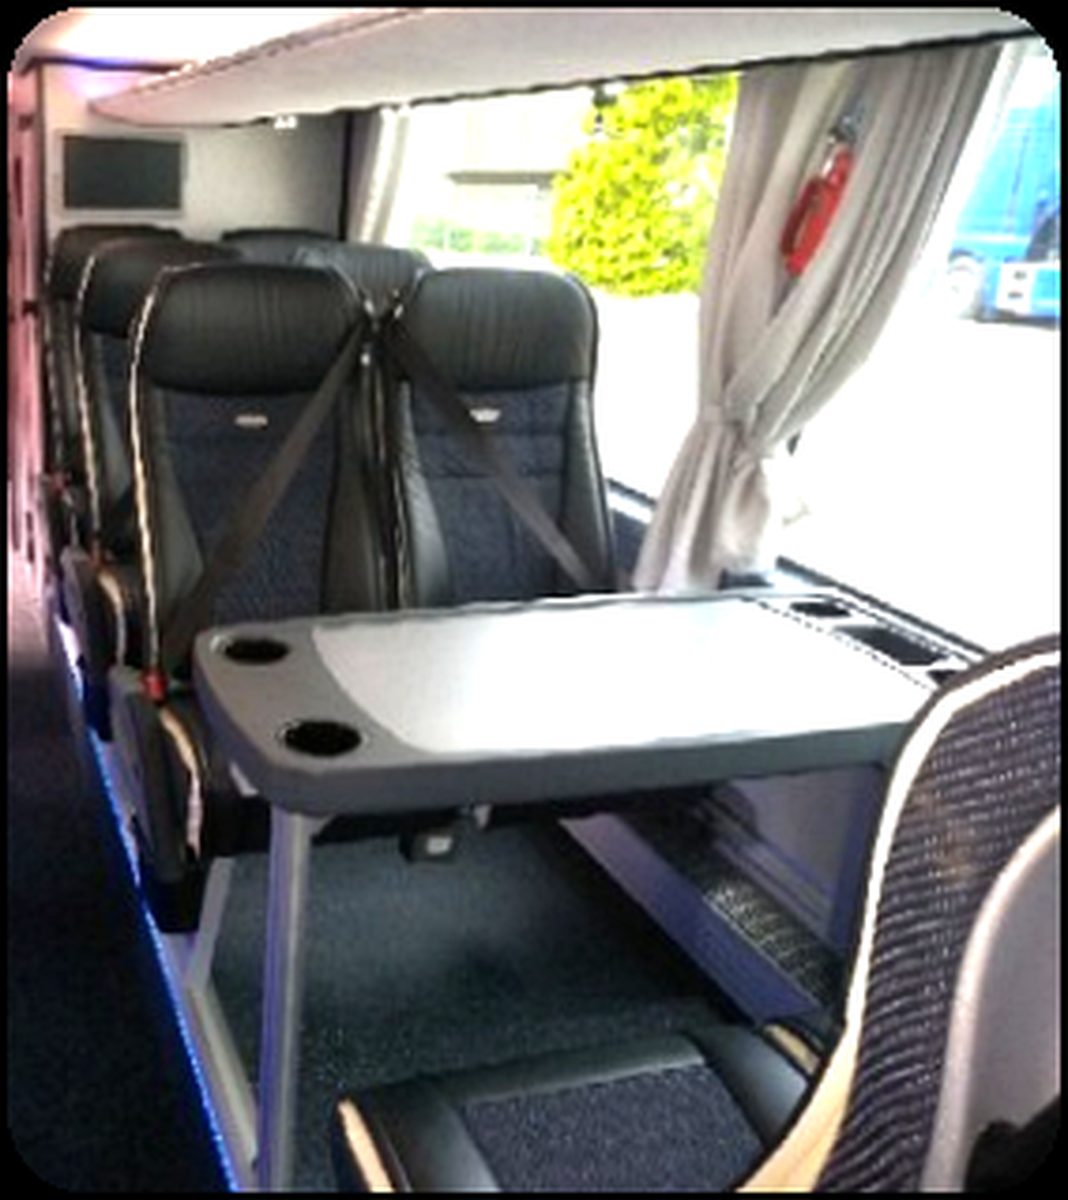
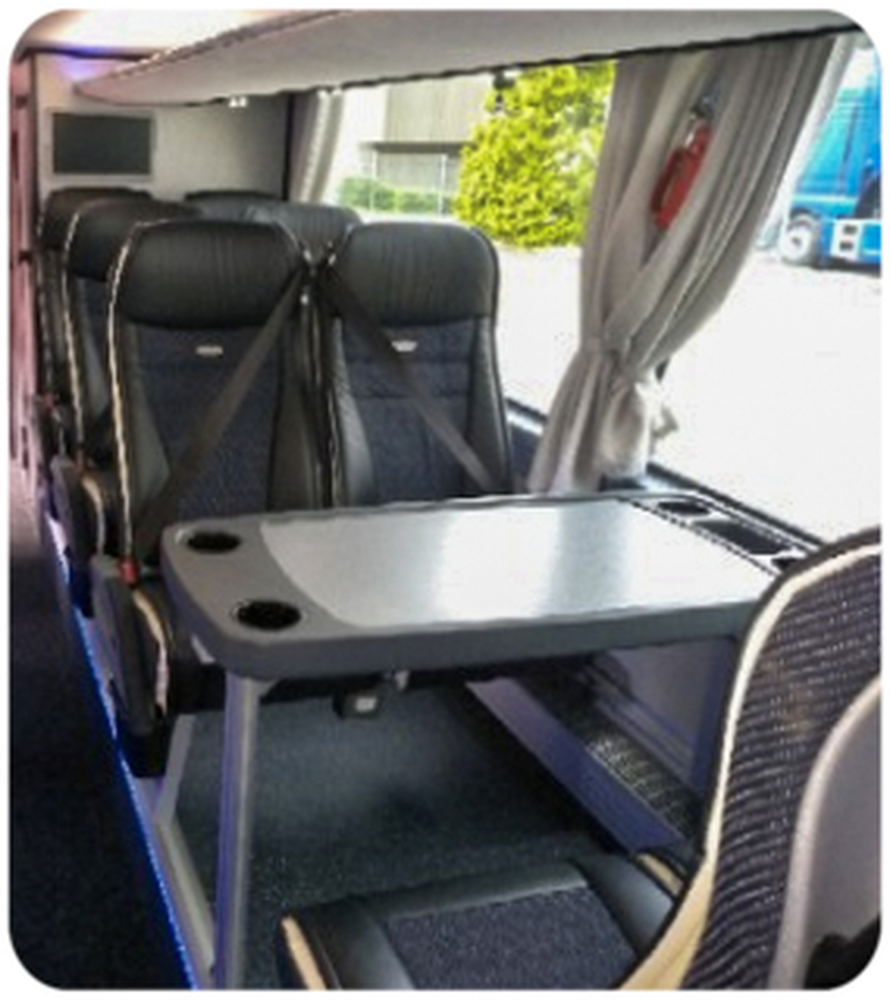
Hero: 3-bus slideshow; Adobe-restored vintage photo; brighter interiors; lighter komfort cards
- Hero now cycles their 3 real coaches (MAN, ZSC Lions, Setra) full-frame with real scenery
- 1932 photo restored via Adobe (cropped off the map, auto-toned)
- Interior photos tone-corrected via Adobe (brighter, clearer)
- Replaced dark MAN card with light icon cards (Panoramadeck, MAN Euro 6)

diff --git a/index.html b/index.html
@@ -14,39 +14,24 @@
 
 <script>
   tailwind.config = {
-    theme: {
-      extend: {
-        colors: {
-          ink:     '#14171C',
-          graphite:'#20262F',
-          steel:   '#2E6E9E',
-          steeldk: '#1E527A',
-          slate:   '#586374',
-          mist:    '#EDF1F5',
-          line:    '#DBE2EA',
-        },
-        fontFamily: {
-          display: ['"Space Grotesk"', 'system-ui', 'sans-serif'],
-          sans:    ['"IBM Plex Sans"', 'system-ui', 'sans-serif'],
-        },
-      }
-    }
+    theme: { extend: {
+      colors: { ink:'#14171C', graphite:'#20262F', steel:'#2E6E9E', steeldk:'#1E527A', slate:'#586374', mist:'#EDF1F5', line:'#DBE2EA' },
+      fontFamily: { display:['"Space Grotesk"','system-ui','sans-serif'], sans:['"IBM Plex Sans"','system-ui','sans-serif'] },
+    }}
   }
 </script>
 
 <style>
-  html { scroll-behavior:smooth; }
-  body { background:#fff; color:#14171C; -webkit-font-smoothing:antialiased; }
-  .eyebrow { letter-spacing:0.26em; text-transform:uppercase; font-size:0.72rem; font-weight:600; }
-  .rule { height:2px; width:3rem; background:#2E6E9E; }
-  .ul-steel { background-image:linear-gradient(#2E6E9E,#2E6E9E); background-size:0% 1.5px; background-repeat:no-repeat; background-position:0 100%; transition:background-size .35s ease; }
-  .ul-steel:hover { background-size:100% 1.5px; }
-  .img-zoom img { transition:transform 1.1s cubic-bezier(.2,.7,.2,1); }
-  .img-zoom:hover img { transform:scale(1.05); }
-  .js .reveal { opacity:0; transform:translateY(24px); transition:opacity .8s ease, transform .8s cubic-bezier(.2,.7,.2,1); }
-  .js .reveal.in { opacity:1; transform:none; }
-  @media (prefers-reduced-motion: reduce){ html{scroll-behavior:auto} .js .reveal{opacity:1;transform:none;transition:none} .img-zoom img{transition:none} }
-  #nav.scrolled { background:rgba(20,23,28,.93); backdrop-filter:blur(10px); }
+  html{scroll-behavior:smooth} body{background:#fff;color:#14171C;-webkit-font-smoothing:antialiased}
+  .eyebrow{letter-spacing:.26em;text-transform:uppercase;font-size:.72rem;font-weight:600}
+  .rule{height:2px;width:3rem;background:#2E6E9E}
+  .ul-steel{background-image:linear-gradient(#2E6E9E,#2E6E9E);background-size:0% 1.5px;background-repeat:no-repeat;background-position:0 100%;transition:background-size .35s ease}
+  .ul-steel:hover{background-size:100% 1.5px}
+  .img-zoom img{transition:transform 1.1s cubic-bezier(.2,.7,.2,1)} .img-zoom:hover img{transform:scale(1.05)}
+  .slide{position:absolute;inset:0;opacity:0;transition:opacity 1.4s ease} .slide.active{opacity:1}
+  .js .reveal{opacity:0;transform:translateY(24px);transition:opacity .8s ease,transform .8s cubic-bezier(.2,.7,.2,1)} .js .reveal.in{opacity:1;transform:none}
+  @media (prefers-reduced-motion:reduce){html{scroll-behavior:auto} .js .reveal{opacity:1;transform:none;transition:none} .img-zoom img{transition:none} .slide{transition:none}}
+  #nav.scrolled{background:rgba(20,23,28,.93);backdrop-filter:blur(10px)}
 </style>
 </head>
 <body class="font-sans antialiased">
@@ -55,7 +40,7 @@
 <header id="nav" class="fixed top-0 inset-x-0 z-50 transition-colors duration-500">
   <nav class="max-w-7xl mx-auto px-6 lg:px-10 h-20 flex items-center justify-between">
     <a href="#top" class="text-white leading-none">
-      <span class="block font-display font-700 text-xl md:text-[1.35rem] tracking-tight" style="font-weight:700">Wäckerlin <span class="text-steel">Carreisen</span></span>
+      <span class="block font-display text-xl md:text-[1.35rem] tracking-tight" style="font-weight:700">Wäckerlin <span class="text-steel">Carreisen</span></span>
       <span class="block eyebrow text-white/60 mt-1" style="font-size:.55rem">seit 1932 · Zürich</span>
     </a>
     <div class="hidden lg:flex items-center gap-8 text-[0.82rem] font-medium text-white/90">
@@ -70,14 +55,16 @@
 </header>
 
 <!-- HERO -->
-<section id="top" class="relative min-h-[88vh] flex items-center">
+<section id="top" class="relative min-h-[88vh] flex items-center overflow-hidden">
   <div class="absolute inset-0">
-    <img src="images/hero-coach.png" alt="TopClass Reisebus der Wäckerlin Carreisen AG in den Schweizer Bergen" class="w-full h-full object-cover" style="object-position:70% center">
-    <div class="absolute inset-0" style="background:linear-gradient(100deg, rgba(20,23,28,.85) 0%, rgba(20,23,28,.55) 45%, rgba(20,23,28,.15) 100%)"></div>
+    <img src="images/bus-man.jpg" class="slide active w-full h-full object-cover" style="object-position:center" alt="MAN Reisebus der Wäckerlin Carreisen AG in den Bergen">
+    <img src="images/bus-zsc.jpg" class="slide w-full h-full object-cover" style="object-position:center" alt="Doppelstock-Reisebus der Wäckerlin Carreisen AG">
+    <img src="images/bus-setra.jpg" class="slide w-full h-full object-cover" style="object-position:center" alt="Setra Reisebus der Wäckerlin Carreisen AG">
+    <div class="absolute inset-0" style="background:linear-gradient(100deg, rgba(20,23,28,.82) 0%, rgba(20,23,28,.5) 45%, rgba(20,23,28,.12) 100%)"></div>
   </div>
   <div class="relative max-w-7xl mx-auto px-6 lg:px-10 w-full pt-28 pb-20">
     <div class="max-w-2xl">
-      <p class="eyebrow text-steel mb-6" style="color:#7FB2D6">seit 1932</p>
+      <p class="eyebrow mb-6" style="color:#7FB2D6">seit 1932</p>
       <h1 class="font-display text-white text-[2.7rem] sm:text-6xl lg:text-7xl leading-[1.02] tracking-tight" style="font-weight:700">Wäckerlin<br>Carreisen AG</h1>
       <p class="mt-6 text-white/90 text-xl md:text-2xl font-light font-display">seit 1932 sicher und zuverlässig unterwegs</p>
       <div class="rule my-8"></div>
@@ -88,7 +75,7 @@
       </div>
     </div>
   </div>
-  <a href="#business" aria-label="Nach unten" class="absolute bottom-8 left-1/2 -translate-x-1/2 text-white/70 hover:text-steel transition-colors">
+  <a href="#business" aria-label="Nach unten" class="absolute bottom-8 left-1/2 -translate-x-1/2 text-white/70 hover:text-steel transition-colors z-10">
     <svg width="24" height="24" viewBox="0 0 24 24" fill="none" stroke="currentColor" stroke-width="1.4" class="animate-bounce"><path d="M12 5v14M19 12l-7 7-7-7"/></svg>
   </a>
 </section>
@@ -107,18 +94,9 @@
       <a id="angebote" href="#kontakt" class="mt-9 inline-flex items-center gap-3 text-steel font-semibold ul-steel">Unsere aktuellen Angebote finden Sie hier <span>→</span></a>
     </div>
     <div class="lg:col-span-5 grid gap-4 reveal">
-      <div class="border border-line p-6">
-        <p class="font-display text-ink text-lg" style="font-weight:600">Ihr Logistikpartner im Personentransportbereich</p>
-        <p class="text-slate mt-1">für Anlässe von 10 – 500 Gästen</p>
-      </div>
-      <div class="border border-line p-6">
-        <p class="font-display text-ink text-lg" style="font-weight:600">Vereinsausflüge / Familienanlässe / Schulreisen</p>
-        <p class="text-slate mt-1">10 – 25 Personen im TopClass Kleinbus</p>
-      </div>
-      <div class="border border-line p-6">
-        <p class="font-display text-ink text-lg" style="font-weight:600">Ihr Partner im Profisportbereich</p>
-        <p class="text-slate mt-1">TopClass Reisebusse mit 25 bis 78 Sitzplätzen</p>
-      </div>
+      <div class="border border-line p-6"><p class="font-display text-ink text-lg" style="font-weight:600">Ihr Logistikpartner im Personentransportbereich</p><p class="text-slate mt-1">für Anlässe von 10 – 500 Gästen</p></div>
+      <div class="border border-line p-6"><p class="font-display text-ink text-lg" style="font-weight:600">Vereinsausflüge / Familienanlässe / Schulreisen</p><p class="text-slate mt-1">10 – 25 Personen im TopClass Kleinbus</p></div>
+      <div class="border border-line p-6"><p class="font-display text-ink text-lg" style="font-weight:600">Ihr Partner im Profisportbereich</p><p class="text-slate mt-1">TopClass Reisebusse mit 25 bis 78 Sitzplätzen</p></div>
     </div>
   </div>
 </section>
@@ -131,9 +109,9 @@
       <h2 class="font-display text-ink text-3xl md:text-4xl leading-tight" style="font-weight:600">Für ein komfortables und gehobenes Reisen sorgen für Sie:</h2>
     </div>
     <div class="grid md:grid-cols-2 gap-6">
-      <!-- Fernreisebestuhlungen -->
+      <!-- Fernreisebestuhlungen (Foto) -->
       <div class="bg-white border border-line overflow-hidden reveal">
-        <div class="img-zoom overflow-hidden h-60"><img src="images/servicetisch.png" alt="Fernreisebestuhlung mit Servicetisch" class="w-full h-full object-cover"></div>
+        <div class="img-zoom overflow-hidden h-64"><img src="images/interior-seats.png" alt="Fernreisebestuhlung im Reisebus" class="w-full h-full object-cover"></div>
         <div class="p-7">
           <h3 class="font-display text-ink text-xl mb-3" style="font-weight:600">Fernreisebestuhlungen</h3>
           <ul class="text-slate space-y-1.5 text-[0.95rem]">
@@ -145,29 +123,29 @@
           </ul>
         </div>
       </div>
-      <!-- Bistrobestuhlung -->
+      <!-- Bistrobestuhlung (Foto) -->
       <div class="bg-white border border-line overflow-hidden reveal">
-        <div class="img-zoom overflow-hidden h-60"><img src="images/interior-aisle.png" alt="Bistrobestuhlung im Unterdeck" class="w-full h-full object-cover"></div>
+        <div class="img-zoom overflow-hidden h-64"><img src="images/servicetisch.png" alt="Bistrobestuhlung im Unterdeck mit Servicetisch" class="w-full h-full object-cover"></div>
         <div class="p-7">
           <h3 class="font-display text-ink text-xl mb-3" style="font-weight:600">Bistrobestuhlung im Unterdeck</h3>
           <p class="text-slate text-[0.95rem]">für die Erfrischung unterwegs</p>
         </div>
       </div>
-      <!-- Panoramadeck -->
-      <div class="bg-white border border-line overflow-hidden reveal">
-        <div class="img-zoom overflow-hidden h-60"><img src="images/interior-seats.png" alt="Panoramadeck mit Glasdach" class="w-full h-full object-cover"></div>
-        <div class="p-7">
-          <h3 class="font-display text-ink text-xl mb-3" style="font-weight:600">Panoramadeck mit Glasdach</h3>
-          <p class="text-slate text-[0.95rem]">das einzigartige Ausflugserlebnis</p>
-        </div>
+      <!-- Panoramadeck (Icon) -->
+      <div class="bg-white border border-line p-7 flex flex-col reveal">
+        <span class="inline-flex w-12 h-12 items-center justify-center border border-steel/30 text-steel mb-5">
+          <svg width="22" height="22" viewBox="0 0 24 24" fill="none" stroke="currentColor" stroke-width="1.5"><path d="M3 7l9-4 9 4M4 7v12a1 1 0 001 1h14a1 1 0 001-1V7M4 11h16"/></svg>
+        </span>
+        <h3 class="font-display text-ink text-xl mb-2" style="font-weight:600">Panoramadeck mit Glasdach</h3>
+        <p class="text-slate text-[0.95rem]">das einzigartige Ausflugserlebnis</p>
       </div>
-      <!-- MAN Euro 6 -->
-      <div class="bg-ink text-white p-7 flex flex-col justify-between reveal">
-        <svg width="34" height="34" viewBox="0 0 24 24" fill="none" stroke="#7FB2D6" stroke-width="1.4"><path d="M3 13l1-5a2 2 0 012-1.6h8A2 2 0 0116 8l1 5M5 13h14M5 13v3m14-3v3M7 16h.01M17 16h.01M3 13h18"/></svg>
-        <div class="mt-6">
-          <h3 class="font-display text-white text-xl mb-3" style="font-weight:600">MAN-Motortechnologie Euro 6</h3>
-          <p class="text-white/70 text-[0.95rem]">Alle Fahrzeuge werden von der neuesten Motorengeneration angetrieben und schonen somit unsere Umweltrecurcen</p>
-        </div>
+      <!-- MAN Euro 6 (Icon, hell) -->
+      <div class="bg-white border border-line p-7 flex flex-col reveal">
+        <span class="inline-flex w-12 h-12 items-center justify-center border border-steel/30 text-steel mb-5">
+          <svg width="22" height="22" viewBox="0 0 24 24" fill="none" stroke="currentColor" stroke-width="1.5"><path d="M3 13l1-5a2 2 0 012-1.6h8A2 2 0 0116 8l1 5M5 13h14M5 13v3m14-3v3M7 16h.01M17 16h.01"/></svg>
+        </span>
+        <h3 class="font-display text-ink text-xl mb-2" style="font-weight:600">MAN-Motortechnologie Euro 6</h3>
+        <p class="text-slate text-[0.95rem]">Alle Fahrzeuge werden von der neuesten Motorengeneration angetrieben und schonen somit unsere Umweltrecurcen</p>
       </div>
     </div>
   </div>
@@ -181,7 +159,7 @@
       <h2 class="font-display text-3xl md:text-4xl leading-tight" style="font-weight:600">Zur Sicherheit unserer Fahrgäste tragen folgende Assistenten bei:</h2>
     </div>
     <ul class="grid sm:grid-cols-2 lg:grid-cols-3 gap-x-10 gap-y-3.5 reveal">
-      <li class="flex items-start gap-3 text-white/85"><span class="text-steel mt-1.5" style="color:#7FB2D6">▪</span>Abstandsregler</li>
+      <li class="flex items-start gap-3 text-white/85"><span style="color:#7FB2D6" class="mt-1.5">▪</span>Abstandsregler</li>
       <li class="flex items-start gap-3 text-white/85"><span style="color:#7FB2D6" class="mt-1.5">▪</span>Spurhalteassisten</li>
       <li class="flex items-start gap-3 text-white/85"><span style="color:#7FB2D6" class="mt-1.5">▪</span>Bremsassistet</li>
       <li class="flex items-start gap-3 text-white/85"><span style="color:#7FB2D6" class="mt-1.5">▪</span>Rückfahrkamera</li>
@@ -210,8 +188,8 @@
       </div>
     </div>
     <div class="reveal order-1 lg:order-2">
-      <div class="img-zoom overflow-hidden border border-line">
-        <img src="images/history-1932.jpg" alt="Fahrzeuge / Requisiten von damals – Wäckerlin Carreisen seit 1932" class="w-full h-auto object-cover">
+      <div class="img-zoom overflow-hidden border border-line bg-ink">
+        <img src="images/history-1932.jpg" alt="Wäckerlin Car auf einem Alpenpass – Fahrzeuge von damals, seit 1932" class="w-full h-auto object-cover">
       </div>
       <p class="eyebrow text-slate mt-4" style="font-size:.62rem">Fahrzeuge / Requisiten von damals</p>
     </div>
@@ -228,27 +206,11 @@
       <a href="tel:[phone redacted]" class="mt-9 inline-flex items-center gap-3 bg-steel hover:bg-steeldk text-white px-8 py-4 text-[0.82rem] font-semibold tracking-widest transition-colors">[phone redacted]</a>
     </div>
     <div class="reveal grid sm:grid-cols-2 gap-x-10 gap-y-8 text-[0.95rem]">
-      <div>
-        <p class="eyebrow text-white/40 mb-3" style="font-size:.6rem">Adresse</p>
-        <p class="text-white/90 leading-relaxed">WÄCKERLIN CARREISEN AG<br>Berninastrasse 112<br>CH-8057 Zürich</p>
-      </div>
-      <div>
-        <p class="eyebrow text-white/40 mb-3" style="font-size:.6rem">Telefon</p>
-        <p class="text-white/90">Tel. [phone redacted]</p>
-      </div>
-      <div>
-        <p class="eyebrow text-white/40 mb-3" style="font-size:.6rem">E-Mail</p>
-        <a href="mailto:[email redacted]" class="ul-steel" style="color:#7FB2D6">[email redacted]</a>
-      </div>
-      <div>
-        <p class="eyebrow text-white/40 mb-3" style="font-size:.6rem">Finanzen</p>
-        <p class="text-white/70">Debitoren-/Kreditorenabteilung:</p>
-        <a href="mailto:[email redacted]" class="ul-steel" style="color:#7FB2D6">[email redacted]</a>
-      </div>
-      <div class="sm:col-span-2">
-        <p class="eyebrow text-white/40 mb-3" style="font-size:.6rem">Geschäftsleitung</p>
-        <p class="text-white/90">Hansjörg Wäckerlin · <a href="mailto:[email redacted]" class="ul-steel" style="color:#7FB2D6">[email redacted]</a></p>
-      </div>
+      <div><p class="eyebrow text-white/40 mb-3" style="font-size:.6rem">Adresse</p><p class="text-white/90 leading-relaxed">WÄCKERLIN CARREISEN AG<br>Berninastrasse 112<br>CH-8057 Zürich</p></div>
+      <div><p class="eyebrow text-white/40 mb-3" style="font-size:.6rem">Telefon</p><p class="text-white/90">Tel. [phone redacted]</p></div>
+      <div><p class="eyebrow text-white/40 mb-3" style="font-size:.6rem">E-Mail</p><a href="mailto:[email redacted]" class="ul-steel" style="color:#7FB2D6">[email redacted]</a></div>
+      <div><p class="eyebrow text-white/40 mb-3" style="font-size:.6rem">Finanzen</p><p class="text-white/70">Debitoren-/Kreditorenabteilung:</p><a href="mailto:[email redacted]" class="ul-steel" style="color:#7FB2D6">[email redacted]</a></div>
+      <div class="sm:col-span-2"><p class="eyebrow text-white/40 mb-3" style="font-size:.6rem">Geschäftsleitung</p><p class="text-white/90">Hansjörg Wäckerlin · <a href="mailto:[email redacted]" class="ul-steel" style="color:#7FB2D6">[email redacted]</a></p></div>
     </div>
   </div>
 </section>
@@ -257,7 +219,7 @@
 <footer class="bg-graphite text-white/60">
   <div class="max-w-7xl mx-auto px-6 lg:px-10 py-12 flex flex-col md:flex-row items-start md:items-center justify-between gap-6">
     <div>
-      <p class="font-display text-white text-xl" style="font-weight:700">Wäckerlin <span class="text-steel" style="color:#7FB2D6">Carreisen AG</span></p>
+      <p class="font-display text-white text-xl" style="font-weight:700">Wäckerlin <span style="color:#7FB2D6">Carreisen AG</span></p>
       <p class="eyebrow text-white/40 mt-2" style="font-size:.58rem">seit 1932 sicher und zuverlässig unterwegs</p>
     </div>
     <div class="flex flex-wrap gap-x-7 gap-y-2 text-sm">
@@ -278,6 +240,12 @@
   onScroll(); window.addEventListener('scroll',onScroll,{passive:true});
   const io=new IntersectionObserver((es)=>{es.forEach(e=>{if(e.isIntersecting){e.target.classList.add('in');io.unobserve(e.target);}})},{threshold:0.12});
   document.querySelectorAll('.reveal').forEach(el=>io.observe(el));
+  // hero slideshow
+  (function(){
+    const slides=[...document.querySelectorAll('.slide')]; let i=0;
+    const mq=window.matchMedia('(prefers-reduced-motion: reduce)');
+    if(slides.length>1 && !mq.matches){ setInterval(()=>{ slides[i].classList.remove('active'); i=(i+1)%slides.length; slides[i].classList.add('active'); },5000); }
+  })();
 </script>
 </body>
 </html>